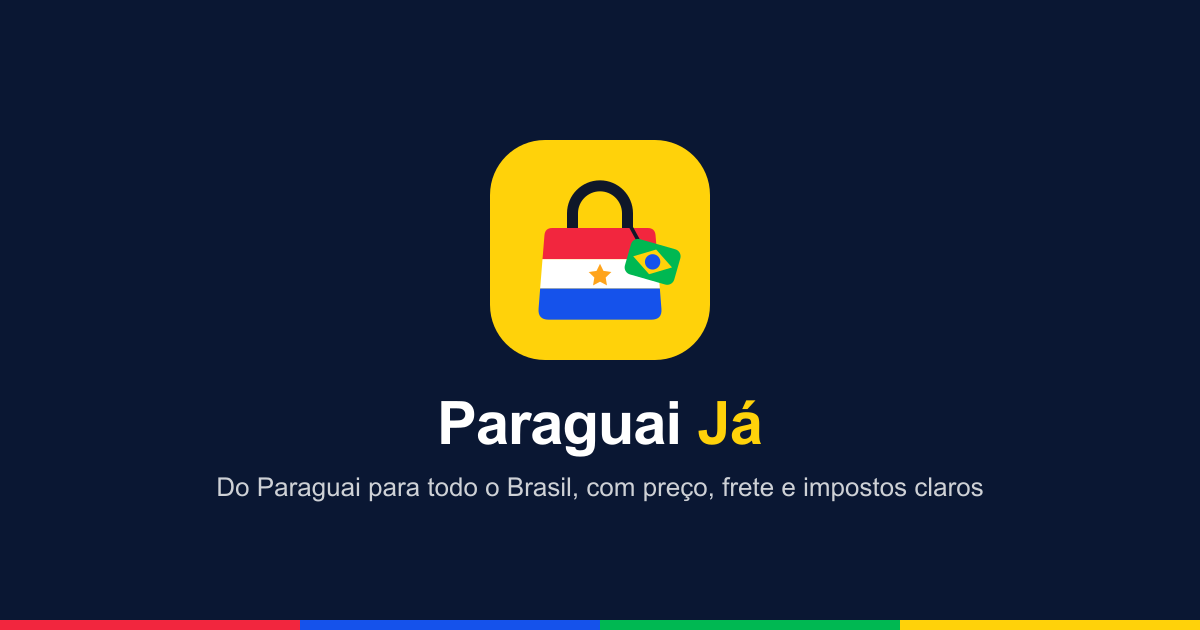
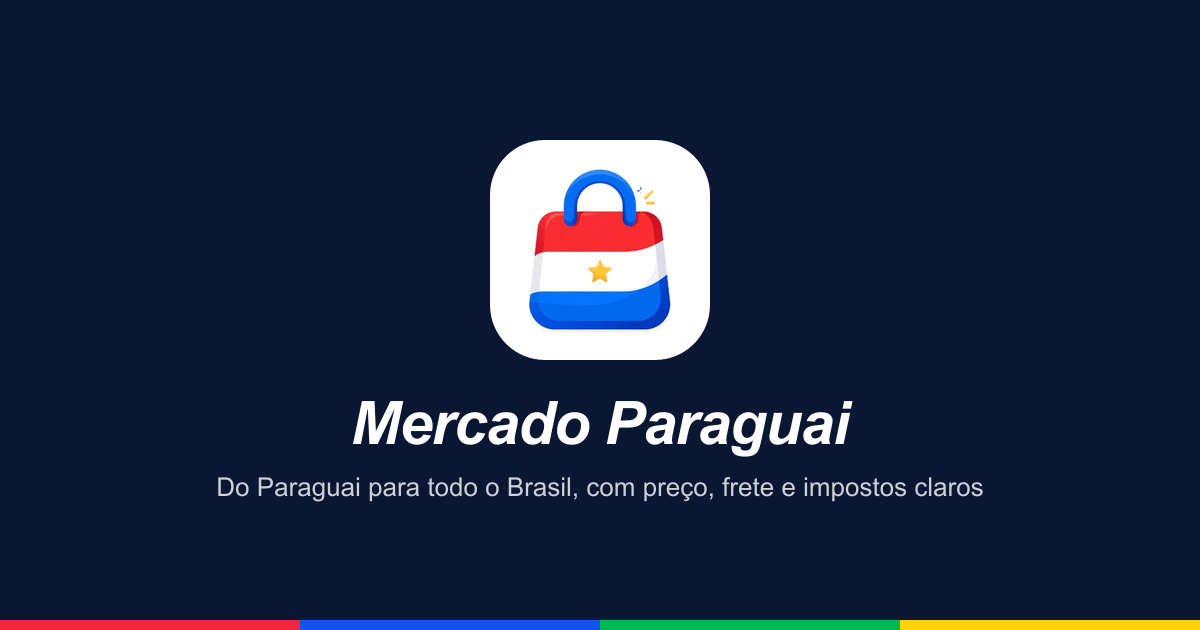
feat: ícone do app com a sacola Mercado Paraguai
Favicon, ícones do manifest (any e maskable), apple-touch e OG passam a sair de
public/brand/logo-mercado-paraguai.png (tile branco com a sacola) em vez do logo.svg
antigo. Os PNGs ganham nome novo (public/icons/sacola-*) porque o service worker guarda
/icons/* em CacheFirst por 30 dias. O convite de instalação e /instalar mostram o
mesmo ícone via <AppIcon />, e a OG passa a dizer "Mercado Paraguai".

Changed region(s): [[0.4008, 0.2111, 0.6167, 0.573], [0.2775, 0.6333, 0.7092, 0.7238]]

diff --git a/apps/web/src/app/manifest.ts b/apps/web/src/app/manifest.ts
@@ -17,32 +17,32 @@ export default function manifest(): MetadataRoute.Manifest {
     lang: "pt-BR",
     categories: ["shopping"],
     icons: [
-      { src: "/icons/icon-192.png", sizes: "192x192", type: "image/png" },
-      { src: "/icons/icon-512.png", sizes: "512x512", type: "image/png" },
+      { src: "/icons/sacola-192.png", sizes: "192x192", type: "image/png" },
+      { src: "/icons/sacola-512.png", sizes: "512x512", type: "image/png" },
       {
-        src: "/icons/icon-maskable-192.png",
+        src: "/icons/sacola-maskable-192.png",
         sizes: "192x192",
         type: "image/png",
         purpose: "maskable",
       },
       {
-        src: "/icons/icon-maskable-512.png",
+        src: "/icons/sacola-maskable-512.png",
         sizes: "512x512",
         type: "image/png",
         purpose: "maskable",
       },
     ],
     shortcuts: [
-      { name: "Buscar", url: "/busca", icons: [{ src: "/icons/icon-192.png", sizes: "192x192" }] },
+      { name: "Buscar", url: "/busca", icons: [{ src: "/icons/sacola-192.png", sizes: "192x192" }] },
       {
         name: "Carrinho",
         url: "/carrinho",
-        icons: [{ src: "/icons/icon-192.png", sizes: "192x192" }],
+        icons: [{ src: "/icons/sacola-192.png", sizes: "192x192" }],
       },
       {
         name: "Meus pedidos",
         url: "/conta/pedidos",
-        icons: [{ src: "/icons/icon-192.png", sizes: "192x192" }],
+        icons: [{ src: "/icons/sacola-192.png", sizes: "192x192" }],
       },
     ],
     screenshots: [

diff --git a/apps/web/src/features/design/components/sections-foundation.tsx b/apps/web/src/features/design/components/sections-foundation.tsx
@@ -4,6 +4,7 @@ import { Heart, ShoppingBag, Sparkles, Zap } from "lucide-react";
 import { motion, useReducedMotion } from "motion/react";
 import { useState } from "react";
 
+import { AppIcon } from "@/components/layout/app-icon";
 import { BrandLogo } from "@/components/layout/brand-logo";
 import { BrandMark } from "@/components/layout/brand-mark";
 import { CartBadge } from "@/components/layout/header";
@@ -87,6 +88,17 @@ export function BrandSection() {
           </div>
           <BrandMark tone="light" size="sm" />
         </div>
+      </Demo>
+      <Demo label="Ícone do app" hint="public/icons/sacola-*.png · pnpm --filter web icons">
+        <div className="flex flex-wrap items-end gap-6">
+          <AppIcon size={96} />
+          <AppIcon size={72} />
+          <AppIcon size={40} />
+        </div>
+        <p className="mt-4 text-body-sm text-foreground-secondary">
+          Tile branco com a sacola do lockup. Sai no manifest (any e maskable), apple-touch,
+          favicon e OG; na interface, só no convite de instalação e em /instalar.
+        </p>
       </Demo>
       <Demo label="Paleta da marca" hint="cores chapadas vivas em cima · tons claros embaixo">
         <ul className="grid grid-cols-3 gap-3 sm:grid-cols-6">

diff --git a/apps/web/src/features/account/components/install-view.tsx b/apps/web/src/features/account/components/install-view.tsx
@@ -4,7 +4,7 @@ import { CheckCircle2, Download, Smartphone, WifiOff, Zap } from "lucide-react";
 import { useTranslations } from "next-intl";
 import { toast } from "sonner";
 
-import { BrandLogo } from "@/components/layout/brand-logo";
+import { AppIcon } from "@/components/layout/app-icon";
 import { usePwa } from "@/components/layout/pwa-provider";
 import { PageContainer } from "@/components/layout/store-shell";
 import { Button } from "@/components/ui/button";
@@ -50,7 +50,7 @@ export function InstallView() {
   return (
     <PageContainer className="flex flex-col gap-8 py-8">
       <section className="mx-auto flex w-full max-w-md flex-col items-center gap-6 text-center">
-        <BrandLogo size={72} />
+        <AppIcon size={72} />
         <p className="text-body text-foreground-secondary">{tPwa("androidHint")}</p>
         <ul className="flex w-full flex-col gap-3 text-left">
           {benefits.map(({ icon: Icon, label }) => (

diff --git a/apps/web/src/components/layout/install-prompt.tsx b/apps/web/src/components/layout/install-prompt.tsx
@@ -4,7 +4,7 @@ import { X } from "lucide-react";
 import { useTranslations } from "next-intl";
 import { useEffect, useState } from "react";
 
-import { BrandLogo } from "@/components/layout/brand-logo";
+import { AppIcon } from "@/components/layout/app-icon";
 import { usePwa } from "@/components/layout/pwa-provider";
 import { Button } from "@/components/ui/button";
 import { Link } from "@/i18n/navigation";
@@ -54,7 +54,7 @@ export function InstallPrompt() {
       className="fixed inset-x-0 bottom-[calc(var(--bottom-nav-height)+var(--safe-bottom))] z-40 border-t border-border bg-surface shadow-md md:bottom-0"
     >
       <div className="mx-auto flex w-full max-w-6xl items-center gap-3 px-4 py-3">
-        <BrandLogo size={40} />
+        <AppIcon size={40} />
         <div className="min-w-0 flex-1">
           <p id="install-title" className="truncate text-body-sm font-medium text-foreground">
             {t("installTitle")}

diff --git a/apps/web/src/components/layout/app-icon.tsx b/apps/web/src/components/layout/app-icon.tsx
@@ -1,0 +1,25 @@
+import Image from "next/image";
+
+import { cn } from "@/lib/utils";
+
+interface AppIconProps {
+  /** Lado em px. */
+  size: number;
+  className?: string;
+}
+
+/**
+ * O ícone do app instalado (o mesmo PNG do manifest, gerado por `pnpm --filter web icons`): tile
+ * branco com a sacola. O contorno segura o tile branco sobre a superfície clara. Decorativo.
+ */
+export function AppIcon({ size, className }: AppIconProps) {
+  return (
+    <Image
+      src="/icons/sacola-192.png"
+      alt=""
+      width={size}
+      height={size}
+      className={cn("shrink-0 rounded-[25%] ring-1 ring-border", className)}
+    />
+  );
+}

diff --git a/apps/web/src/app/[locale]/layout.tsx b/apps/web/src/app/[locale]/layout.tsx
@@ -42,11 +42,8 @@ export async function generateMetadata({
     appleWebApp: { capable: true, statusBarStyle: "default", title: site.shortName },
     formatDetection: { telephone: false },
     icons: {
-      icon: [
-        { url: "/favicon-32.png", sizes: "32x32", type: "image/png" },
-        { url: "/logo.svg", type: "image/svg+xml" },
-      ],
-      apple: "/icons/apple-touch-icon.png",
+      icon: [{ url: "/favicon-32.png", sizes: "32x32", type: "image/png" }],
+      apple: "/icons/sacola-apple-touch.png",
     },
     openGraph: {
       type: "website",

diff --git a/DESIGN.md b/DESIGN.md
@@ -433,8 +433,9 @@ Geometria do caminho A do arquivo `Marketplace Paraguai — identidade.html`, na
 desde 01/10/2026. Vetor: `apps/web/public/logo.svg` (viewBox 120×120). Componente React com a
 mesma geometria: `apps/web/src/components/layout/brand-logo.tsx` (`<BrandLogo size />`).
 Lockup com wordmark: `brand-mark.tsx` (`<BrandMark size="md|sm" tone="dark|light" compact />`) — desde 08/10/2026 ele usa a sacola nova em PNG, não este SVG (Apêndice B › Decisões de adaptação, item 13).
-PNGs (manifest, maskable, apple-touch, favicon.ico, favicon-32, mestre 1024 e OG) são
-gerados por `pnpm --filter web icons` a partir do SVG.
+Desde 09/10/2026 os PNGs (manifest, maskable, apple-touch, favicon.ico, favicon-32 e OG) também
+saem da sacola nova, não deste SVG (Apêndice B › item 13); `public/brand/app-icon-1024.png` é o
+mestre antigo deste logo.
 
 ## O que o logo é
 
@@ -621,5 +622,10 @@ Imagens`). Regras derivadas:
       Figtree 800 itálico, branco com contorno Tinta de 2 px por baixo do preenchimento. Tile de
       56 px (raio 14) no header desktop, 36 px (raio 9) no mobile, rodapé e painéis. O header
       desktop passou de `h-16` para `min-h-16 py-2.5` para caber o tile.
-    - **Pendente**: favicon, ícones do manifest, apple-touch e OG ainda são gerados do
-      `logo.svg` antigo (Apêndice A); trocar quando houver a sacola nova em vetor ou em ≥ 1024 px.
+    - **Ícone do app (09/10/2026)**: `pnpm --filter web icons` gera favicon, ícones do manifest,
+      apple-touch e OG a partir de `logo-mercado-paraguai.png`: tile branco com a sacola (74 % da
+      altura; 60 % no maskable, dentro da zona segura; 90 % no favicon), em
+      `public/icons/sacola-*.png` — nome novo porque o SW guarda `/icons/*` em CacheFirst por 30
+      dias. A OG passou a dizer "Mercado Paraguai". `<AppIcon size />` (`components/layout/app-icon.tsx`)
+      mostra o mesmo PNG no convite de instalação e em `/instalar`, no lugar do `BrandLogo`. Fonte
+      de 256 px: o 512 sai ampliado; regerar quando houver a sacola em vetor ou em ≥ 1024 px.

diff --git a/CLAUDE.md b/CLAUDE.md
@@ -36,7 +36,7 @@ base, atualize a seção correspondente lá.
 pnpm install            # raiz
 pnpm dev                # http://localhost:3210 (mock MSW ativado por .env.local)
 pnpm typecheck && pnpm lint && pnpm build
-pnpm --filter web icons # regenera ícones a partir de apps/web/public/logo.svg
+pnpm --filter web icons # regenera ícones a partir de apps/web/public/brand/logo-mercado-paraguai.png
 ```
 
 ## Onde estão as coisas
@@ -46,7 +46,8 @@ pnpm --filter web icons # regenera ícones a partir de apps/web/public/logo.svg
 - Componentes base: `apps/web/src/components/ui` (shadcn) e `apps/web/src/components/shared`
   (ProductCard, PriceTag, SellerBadge, TrustBadge, OrderTimeline, EmptyState…).
 - Layout: `apps/web/src/components/layout` (StoreShell, Header, Footer, BottomNav, BrandMark, TricolorStripe).
-- Marca: `apps/web/public/logo.svg` (logo "Etiqueta", vetor; os PNGs e a OG saem dele via `pnpm --filter web icons`),
+- Marca: `apps/web/public/brand/logo-mercado-paraguai.png` (sacola; favicon, ícones do manifest e OG saem dela via
+  `pnpm --filter web icons`), `apps/web/public/logo.svg` (logo "Etiqueta" antigo, vetor),
   `components/layout/brand-logo.tsx`, `brand-mark.tsx` e `components/shared/flags.tsx`. Geometria original:
   `../Marketplace Paraguai — identidade.html` (as cores e o nome de lá foram substituídos em 01/10/2026).
 - Docs técnicas: `docs/*.md` (arquitetura, contratos, mocks, PWA, i18n, convenções).

diff --git a/docs/PWA.md b/docs/PWA.md
@@ -61,4 +61,5 @@ layout raiz; `appleWebApp` + `apple-touch-icon` para iOS; `viewport-fit=cover`.
 1. `pnpm build` (gera `public/sw.js` com precache) e `pnpm start`.
 2. Servir em HTTPS (Cloudflare) — obrigatório para SW e instalação.
 3. Validar no Lighthouse: manifest, ícones maskable, SW com fetch handler, offline `/offline` respondendo.
-4. Trocar `public/logo.svg` pela logo oficial e rodar `pnpm icons`.
+4. Trocar `public/brand/logo-mercado-paraguai.png` pela logo oficial em vetor ou ≥ 1024 px, rodar `pnpm icons` e renomear
+   os PNGs de `public/icons` (o SW guarda `/icons/*` em CacheFirst).

diff --git a/docs/DESIGN_SYSTEM.md b/docs/DESIGN_SYSTEM.md
@@ -23,7 +23,8 @@
 
 `public/logo.svg` (vetor), `public/brand/app-icon-1024.png` (original), `components/layout/brand-logo.tsx`
 (`<BrandLogo tile />` em superfícies claras, `<BrandLogo />` sobre `brand-deep`), `brand-mark.tsx` (logo +
-wordmark), `tricolor-stripe.tsx`. Ícones do manifest, favicon e OG são gerados por `scripts/generate-icons.mjs`.
+wordmark), `tricolor-stripe.tsx`. Ícones do manifest, favicon e OG são gerados por `scripts/generate-icons.mjs` a partir
+de `public/brand/logo-mercado-paraguai.png`; `<AppIcon />` (`app-icon.tsx`) mostra o ícone na interface.
 
 ## Componentes
 
